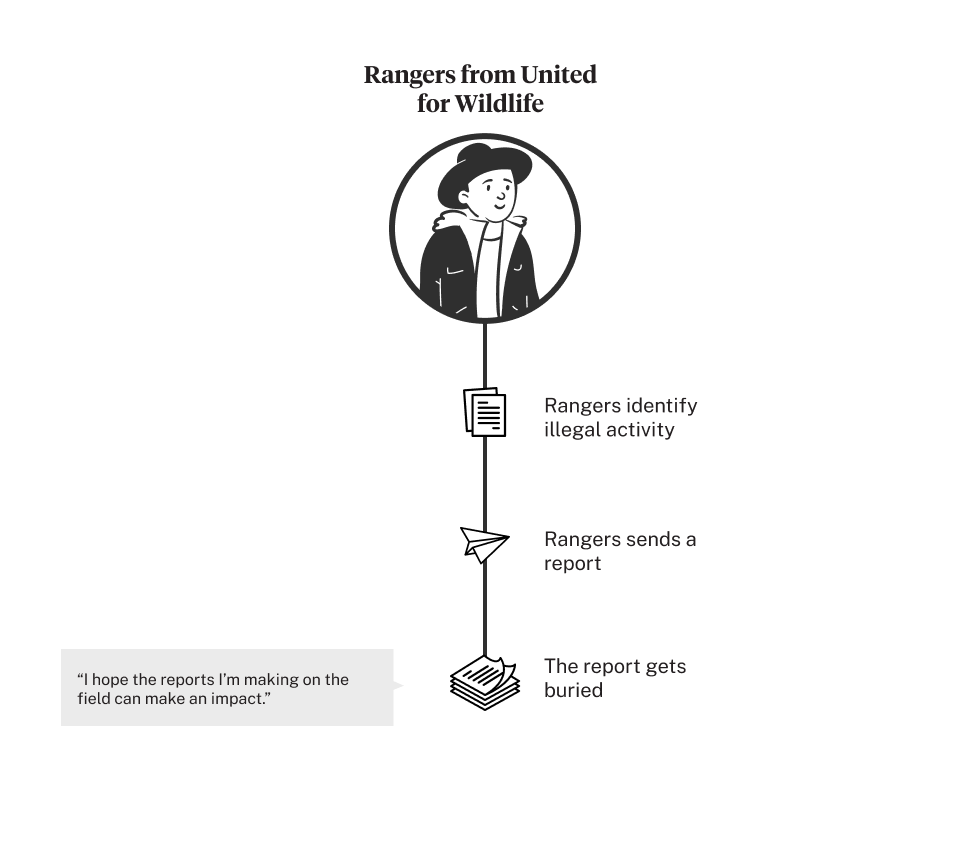
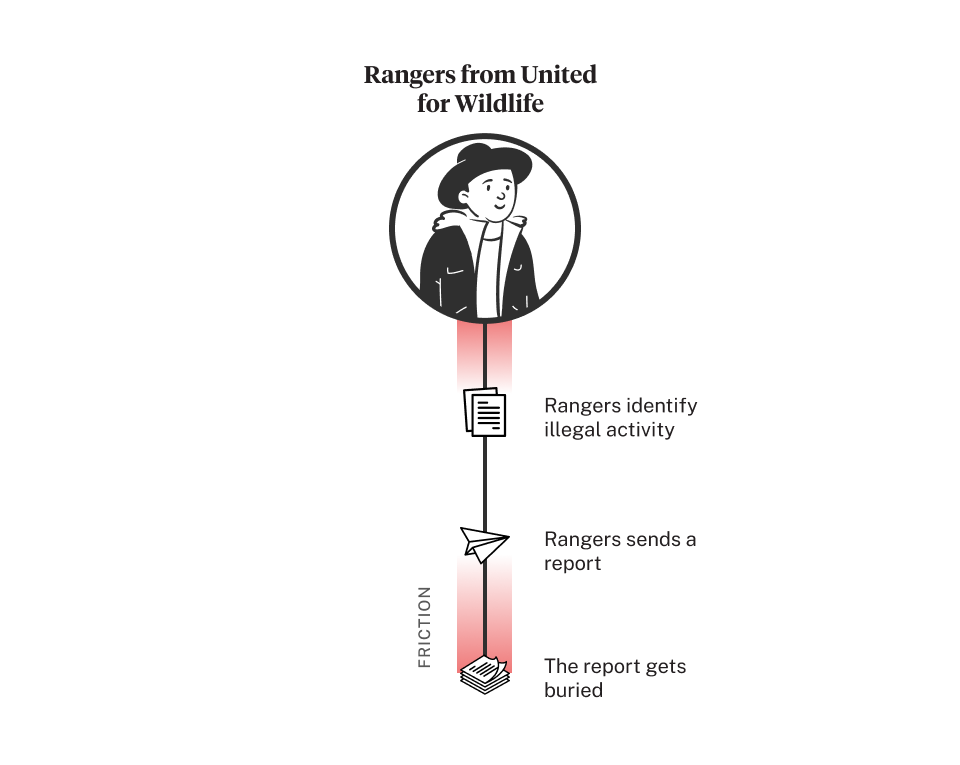
chore: content update for wildlife

diff --git a/src/pages/index.js b/src/pages/index.js
@@ -26,7 +26,7 @@ const IndexPage = ({ location }) => {
           >
             <PageHeading
               title={`Kristy Leung`}
-              abstract={`Creates human centered systems and experiences. Currently — designing a brand new gaming experience for millions of players at Electronic Arts`}
+              abstract={`Creates human centered systems and experiences. Currently — designing a brand new gaming experience for millions of players at Electronic Arts.`}
             />
             <SectionHeader>Experiences I’ve created</SectionHeader>
             <FeaturedSection>

diff --git a/src/pages/united-for-wildlife/index.md b/src/pages/united-for-wildlife/index.md
@@ -18,36 +18,38 @@ image: ./taskforce-wildlife-hero.png
 
 ## Context
 
-Organized criminal networks across the globe have caused an unprecedented increase in the illegal hunting and trading of animals. Traffickers exploit unsuspecting transport businesses, such as passenger and cargo airlines and shipping companies, by using them to smuggle their contraband.
+Organized criminal networks across the globe have caused an unprecedented increase in the illegal hunting and trading of animals. Traffickers exploit unsuspecting transport businesses, such as passenger and cargo airlines and shipping companies, by using them to smuggle their contraband. 
 
-In response to the increase of illegal wildlife activities, United for Wildlife (UfW) approached my team at Edenspiekermann and asked us to explore approaches to lower the rate of wildlife trafficking. 
+![The current state of wildlife trafficking](./taskforce-wildlife-problem.png)
 
-My teammates and I knew this scope of the problem was too large and complex. Instead, we looked for ways to pare it down to bite-sized pieces to establish an approachable problem space.
+In response to the increase of illegal wildlife activities, United for Wildlife (UfW) approached my team at Edenspiekermann and asked us to explore approaches to slow the rate of wildlife trafficking. 
 
 ![United for Wildlife, an initiative led by the Duke of Cambridge to stop wildlife, approached our team us for possible solutions to lower the rate of wildlife trafficking.](./taskforce-wildlife-UFW.png)
 
-## Key insights from our research
+## Understanding wildlife trafficking 
 
-While interviewing a representative from the logistics team from Bangkok Airways, we learned that decisions surrounding route planning are based on outdated reports or historic trends. Logisticians have no real time data to plan routes that they are sure aren’t compromised.
+Due to the complexity of the problem, we looked for ways to pare it down to bite-sized pieces to tighten the scope. We conducted user interviews with the actors involved. In the interview with the logistics team from Bangkok Airways, we learned transport businesses often unwittingly become conduits to illegal wildlife trading. To combat this, the logistics team aims to help transport vehicles avoid compromised areas. Before a logistician plans a transport route, they attempt to track and analyse historic trafficking reports on the map.
 
-![The current journey map of transport businesses.](./taskforce-wildlife-transport-businesses-journey.png)
+![The current journey map of transport businesses](./taskforce-wildlife-transport-businesses-journey.png)
 
-To understand the workflow of wildlife rangers appointed by UfW, we learned that rangers would make reports when they detect any suspicious activity. But these reports would often get buried in a dense backlog, rarely reaching transport businesses in time if at all.
+To understand the workflow of wildlife rangers appointed by UfW, we learned that rangers would make reports when they detect any suspicious activity. But these reports would often get buried in a dense backlog, rarely reaching transport businesses in time if at all. 
 
 ![The current journey map of United for Wildlife and their wildlife rangers.](./taskforce-wildlife-UFW-journey.png)
 
-## The breakthrough
+I extracted key insights from logisticians and rangers that helped the team reframe the problem space.
 
-At this point, it was clear to me that logistics plays a critical role in wildlife trafficking. The moments of friction I identified in the journey map (above) allowed me to show my team how we could tighten the problem space. Since we could not prevent wildlife trafficking from hijacking commercial vehicles, perhaps we could help transport businesses outsmart traffickers.
+![Some key insights I gleaned from our interview with the logisitcs from Bangkok Airways](./taskforce-wildlife-logistician-pain-points.png)
 
-## Goals
+![Some key insights about rangers I gleaned from our interview with the UfW](./taskforce-wildlife-ranger-pain-points.png)
 
-- How can we establish communication between rangers and businesses and leverage the knowledge of rangers to improve route planning for businesses?
-- How can we help businesses make the most of this information and use it towards planning safer routes?
+## Problem
+- Long-term goal: To slow the rate of wildlife trafficking
+- Short-term goal: To help transport businesses **outmaneuver wildlife traffickers**
+- Opportunity: How can we help businesses **leverage the intel of rangers to avoid traffickers en route**? 
 
 ## Taskforce Wildlife
 
-Our final solution, Taskforce Wildlife, allowed logisticians to propose a route and would then output a bespoke risk report based on recent and historic reports made by rangers. The risk report creates a direct communication channel from rangers to logisticians. I created a user journey that helped the team and client understand how the observations of rangers in the field would directly be equipping logisticians with the information they need to plan safe routes.
+The final solution, Taskforce Wildlife, allowed logisticians to propose a route and would then output a bespoke risk report based on recent and historic reports made by rangers. The risk report creates a direct communication channel from rangers to logisticians. I created a user journey that helped the team and client understand how the observations of rangers in the field would directly be equipping logisticians with the information they need to plan safe routes.
 
 ![The user journey map of Taskforce Wildlife](taskforce-wildlife-ideal-journey.png)
 
